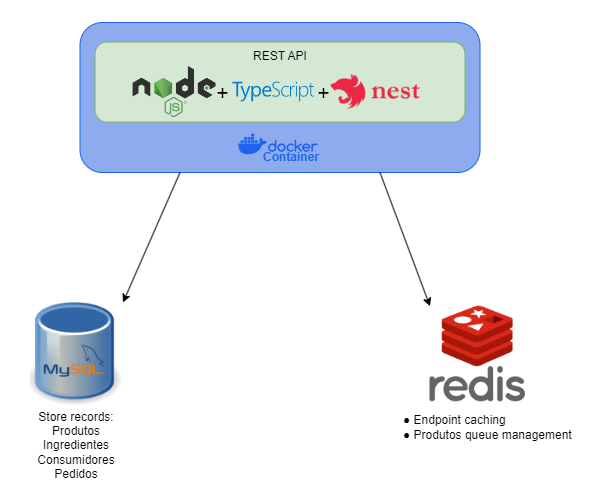
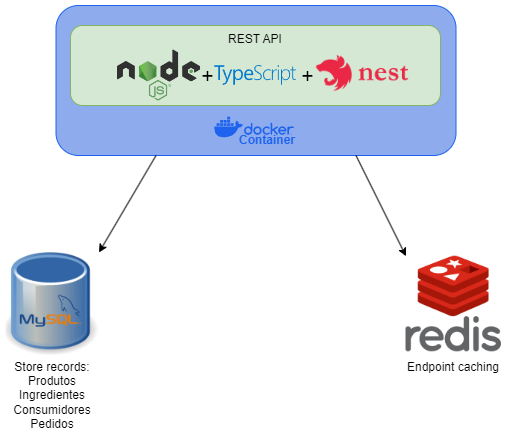
refactor: remove bull queue

diff --git a/src/adapter/driver/nestjs/pedido/pedidos.module.ts b/src/adapter/driver/nestjs/pedido/pedidos.module.ts
@@ -1,19 +1,13 @@
-import { BullModule } from '@nestjs/bull'
 import { Module } from '@nestjs/common'
 import { TypeOrmModule } from '@nestjs/typeorm'
 
 import { ItemPedido } from '@/adapter/driven/entities/item-pedido'
 import { Pedido } from '@/adapter/driven/entities/pedido'
-import PedidoRedisQueue from '@/adapter/driven/queues/pedido-redis.queue'
 import PedidoTypeormRepository from '@/adapter/driven/repository/typeorm/pedido-typeorm.repository'
 import PedidosController from '@/adapter/driver/nestjs/pedido/pedidos.controller'
-import { BullQueueConfig } from '@/config/BullConfig'
 import { IPedidoUseCase } from '@/core/application/ipedido.use-case'
 import PedidoUseCase from '@/core/application/pedido.use-case'
-import { IPedidoQueue } from '@/core/domain/queues/ipedido.queue'
 import { IPedidoRepository } from '@/core/domain/repositories/ipedido.repository'
-
-const PEDIDOS_BULL_QUEUE = 'pedidos'
 
 @Module({
   imports: [
@@ -21,17 +15,13 @@ const PEDIDOS_BULL_QUEUE = 'pedidos'
       Pedido,
       ItemPedido,
     ]),
-    BullModule.registerQueue(BullQueueConfig({ name: PEDIDOS_BULL_QUEUE })),
   ],
   providers: [
     { provide: IPedidoUseCase, useClass: PedidoUseCase },
     { provide: IPedidoRepository, useClass: PedidoTypeormRepository },
-    { provide: IPedidoQueue, useClass: PedidoRedisQueue },
   ],
   controllers: [
     PedidosController
   ],
 })
 export default class PedidosModule {}
-
-export const PEDIDOS_QUEUE = PEDIDOS_BULL_QUEUE

diff --git a/src/core/application/pedido.use-case.ts b/src/core/application/pedido.use-case.ts
@@ -9,9 +9,6 @@ import ItemPedido from '@/core/domain/entities/item-pedido'
 import Pedido from '@/core/domain/entities/pedido'
 import { PedidoStatusEnum } from '@/core/domain/enums/pedido-status.enum'
 import PedidoMapper from '@/core/domain/mappers/pedido.mapper'
-import IPedidoQueue, {
-  IPedidoQueue as IPedidoQueueSymbol,
-} from '@/core/domain/queues/ipedido.queue'
 import IConsumidorRepository, {
   IConsumidorRepository as IConsumidorRepositorySymbol,
 } from '@/core/domain/repositories/iconsumidor.repository'
@@ -27,7 +24,6 @@ export default class PedidoUseCase implements IPedidoUseCase {
     @Inject(IPedidoRepositorySymbol) private readonly repository: IPedidoRepository,
     @Inject(IConsumidorRepositorySymbol) private readonly consumidorRepository: IConsumidorRepository,
     @Inject(IProdutoRepositorySymbol) private readonly produtoRepository: IProdutoRepository,
-    @Inject(IPedidoQueueSymbol) private readonly pedidoQueue: IPedidoQueue,
   ) {}
 
   async list (): Promise<PedidoDto[]> {
@@ -58,8 +54,6 @@ export default class PedidoUseCase implements IPedidoUseCase {
     })
 
     pedido = await this.repository.create(pedido)
-
-    await this.pedidoQueue.add(pedido)
 
     return PedidoMapper.toDto(pedido)
   }

diff --git a/src/app.module.ts b/src/app.module.ts
@@ -1,15 +1,12 @@
-import { BullModule } from '@nestjs/bull'
 import { Module } from '@nestjs/common'
 import { TypeOrmModule } from '@nestjs/typeorm'
 
-import * as Bull from 'bull'
 import { DataSource, DataSourceOptions } from 'typeorm'
 // import { addTransactionalDataSource } from 'typeorm-transactional'
 
 import ConsumidoresModule from '@/adapter/driver/nestjs/consumidores/consumidores.module'
 import ProdutosModule from '@/adapter/driver/nestjs/produtos/produtos.module'
 import AppController from '@/app.controller'
-import RedisConfig from '@/config/RedisConfig'
 import TypeOrmConfig from '@/config/typeorm/TypeOrmConfig'
 
 @Module({
@@ -27,7 +24,6 @@ import TypeOrmConfig from '@/config/typeorm/TypeOrmConfig'
         // return addTransactionalDataSource(new DataSource(options))
       },
     }),
-    BullModule.forRoot({ redis: RedisConfig } as Bull.QueueOptions),
     ConsumidoresModule,
     ProdutosModule,
   ],

diff --git a/README.md b/README.md
@@ -2,12 +2,12 @@
 
 This project involves the development of an API for a fast food self-service system, proposed as a Tech Challenge for the Software Architecture Postgraduate Course at FIAP.
 
-For this project, we utilized the [TypeScript](https://www.typescriptlang.org/) programming language with [Node.js](https://nodejs.org/) and the [Nest.js](https://nestjs.com/) framework. The database management includes [MySQL 5.7](https://www.mysql.com/) to handle information related to Consumidor, Produto, and Pedido. Additionally, an in-memory [Redis](https://redis.io/) database is employed for caching and serves as a structure to manage the Pedidos queue. This is achieved through the use of the [Bull](https://github.com/OptimalBits/bull) library in conjunction with the [Queues](https://docs.nestjs.com/techniques/queues) module provided by Nest.js.
+For this project, we utilized the [TypeScript](https://www.typescriptlang.org/) programming language with [Node.js](https://nodejs.org/) and the [Nest.js](https://nestjs.com/) framework. The database management includes [MySQL 5.7](https://www.mysql.com/) to handle information related to Consumidor, Produto, and Pedido. Additionally, an in-memory [Redis](https://redis.io/) database is employed for caching.
 
 To build the API documentation, we've used [Swagger](https://swagger.io/) tool integrated with Nest.js, accessible through the endpoint: http://localhost:3000/docs
 
 ## Application Architecture and Technologies:
-![Alt text](./docs/application-diagram.png)
+![Architecture diagram](./docs/application-diagram.png)
 
 ## Workspace Dependencies
 - [Node 20.10](https://nodejs.org/)
